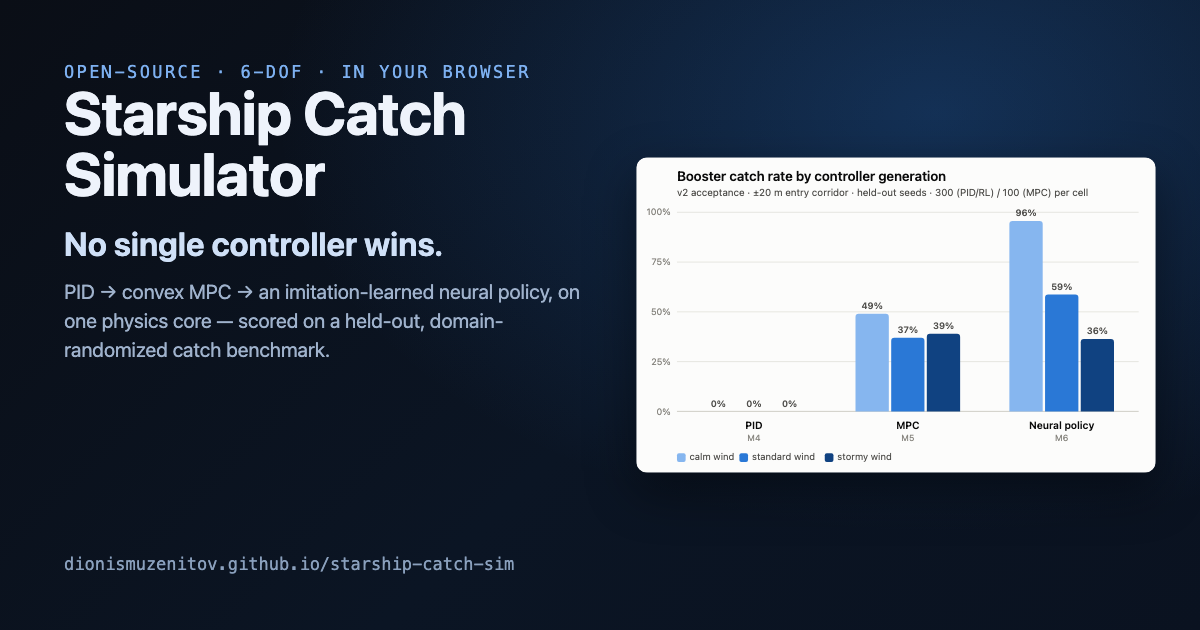
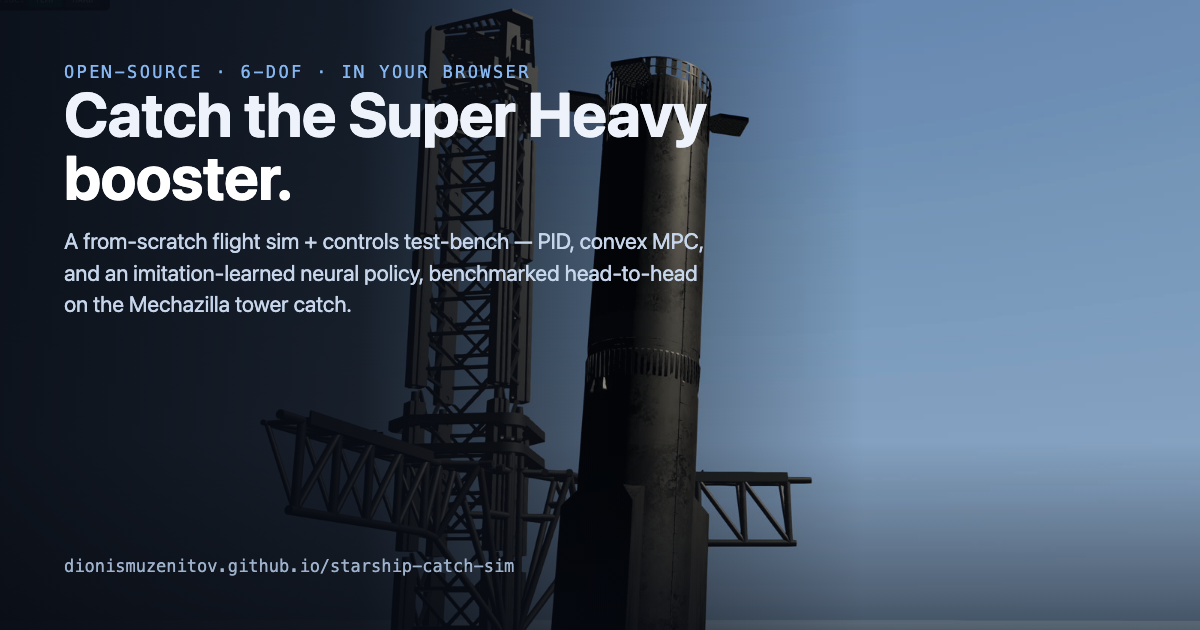
SLS-95 #done og:image → real hero catch frame (#102)
Swaps the temporary progression-chart card for a real in-browser neural-policy catch (booster in the chopsticks above Starbase, HUD cropped) with the title over the sky. Source frame + template committed; regenerate via tools/web-assets/generate.sh.

diff --git a/tools/web-assets/og-image.html b/tools/web-assets/og-image.html
@@ -2,10 +2,12 @@
 <!--
   Source template for apps/web/public/og-image.png (1200×630, the social-share
   card). Rendered to PNG by tools/web-assets/generate.sh via headless Chrome.
-  Edit here + re-run the generator; do not hand-edit the PNG. The chart is the
-  committed north-star progression figure (docs/media/progression.svg, SLS-72),
-  referenced relative to this file. Temporary front-door art (SLS-95) — swap in
-  hero art when SLS-64 lands.
+  Edit here + re-run the generator; do not hand-edit the PNG.
+
+  SLS-95/SLS-64: the card leads with a real hero catch frame (hero-frame.jpg —
+  a crop of an in-browser neural-policy catch, HUD removed) with the title over
+  the open sky. Swap hero-frame.jpg to refresh the shot; SLS-33's polished
+  cinematic can replace it again later.
 -->
 <html lang="en">
   <head>
@@ -14,66 +16,57 @@
       * { margin: 0; padding: 0; box-sizing: border-box; }
       html, body { width: 1200px; height: 630px; }
       body {
-        display: flex;
+        position: relative;
         font-family: system-ui, -apple-system, "Segoe UI", sans-serif;
         color: #eef3fb;
-        background:
-          radial-gradient(1100px 700px at 78% 18%, rgba(42,120,214,0.28), transparent 60%),
-          linear-gradient(135deg, #0a0e16 0%, #0b1524 55%, #0a1220 100%);
         overflow: hidden;
       }
-      .left {
-        flex: 1 1 0;
-        padding: 62px 40px 56px 64px;
-        display: flex;
-        flex-direction: column;
-        justify-content: space-between;
+      .bg {
+        position: absolute; inset: 0;
+        background: url('hero-frame.jpg') center/cover no-repeat;
+      }
+      /* Left-anchored scrim: darkens the sky for legible text and hides the
+         faint HUD sliver in the frame's top-left corner. */
+      .scrim {
+        position: absolute; inset: 0;
+        background:
+          linear-gradient(90deg, rgba(6,10,18,0.94) 0%, rgba(6,10,18,0.86) 30%, rgba(6,10,18,0.35) 55%, rgba(6,10,18,0) 72%),
+          linear-gradient(0deg, rgba(6,10,18,0.55) 0%, rgba(6,10,18,0) 30%);
+      }
+      .content {
+        position: absolute; inset: 0;
+        padding: 62px 40px 54px 64px;
+        display: flex; flex-direction: column; justify-content: space-between;
+        width: 760px;
       }
       .kicker {
         font-family: ui-monospace, "SF Mono", Menlo, monospace;
-        font-size: 17px;
-        letter-spacing: 0.14em;
-        text-transform: uppercase;
-        color: #7db0f0;
+        font-size: 17px; letter-spacing: 0.14em; text-transform: uppercase;
+        color: #86b6ef;
       }
-      h1 { font-size: 60px; font-weight: 700; line-height: 1.02; letter-spacing: -0.5px; }
-      .headline { font-size: 33px; font-weight: 650; color: #cfe0f7; margin-top: 20px; }
-      .headline b { color: #ffffff; }
-      .sub { font-size: 20px; line-height: 1.45; color: #9fb2cc; margin-top: 14px; max-width: 560px; }
+      h1 { font-size: 62px; font-weight: 700; line-height: 1.02; letter-spacing: -0.5px; }
+      h1 .accent { color: #ffffff; }
+      .sub { font-size: 22px; line-height: 1.42; color: #c6d5ea; margin-top: 18px; max-width: 640px; }
       .foot {
         font-family: ui-monospace, "SF Mono", Menlo, monospace;
-        font-size: 17px; color: #8aa0bd;
-      }
-      .right {
-        flex: 0 0 560px;
-        display: flex;
-        align-items: center;
-        justify-content: center;
-        padding-right: 44px;
-      }
-      .right img {
-        width: 520px;
-        height: auto;
-        border-radius: 12px;
-        box-shadow: 0 18px 50px rgba(0,0,0,0.45);
+        font-size: 17px; color: #9fb2cc;
       }
     </style>
   </head>
   <body>
-    <div class="left">
+    <div class="bg"></div>
+    <div class="scrim"></div>
+    <div class="content">
       <div>
         <div class="kicker">Open-source · 6-DOF · in your browser</div>
-        <h1>Starship&nbsp;Catch<br />Simulator</h1>
-        <div class="headline">No single controller wins.</div>
+        <h1>Catch the Super&nbsp;Heavy<br /><span class="accent">booster.</span></h1>
         <div class="sub">
-          PID → convex MPC → an imitation-learned neural policy, on one physics
-          core — scored on a held-out, domain-randomized catch benchmark.
+          A from-scratch flight sim + controls test-bench — PID, convex MPC, and
+          an imitation-learned neural policy, benchmarked head-to-head on the
+          Mechazilla tower catch.
         </div>
       </div>
       <div class="foot">dionismuzenitov.github.io/starship-catch-sim</div>
-    </div>
-    <div class="right">
-      <img src="../../docs/media/progression.svg" alt="Catch rate by controller generation" />
     </div>
   </body>
 </html>

diff --git a/apps/web/index.html b/apps/web/index.html
@@ -32,7 +32,7 @@
     <meta property="og:image" content="https://dionismuzenitov.github.io/starship-catch-sim/og-image.png" />
     <meta property="og:image:width" content="1200" />
     <meta property="og:image:height" content="630" />
-    <meta property="og:image:alt" content="Booster catch rate by controller generation — PID 0%, convex MPC 49/37/39%, neural policy 96/59/36% (calm/standard/stormy) on held-out acceptance seeds." />
+    <meta property="og:image:alt" content="The Super Heavy booster caught in the Mechazilla tower's chopstick arms above Starbase — a real in-browser neural-policy catch — with the title 'Catch the Super Heavy booster.'" />
     <meta name="twitter:card" content="summary_large_image" />
     <meta name="twitter:title" content="Starship Catch Simulator" />
     <meta
